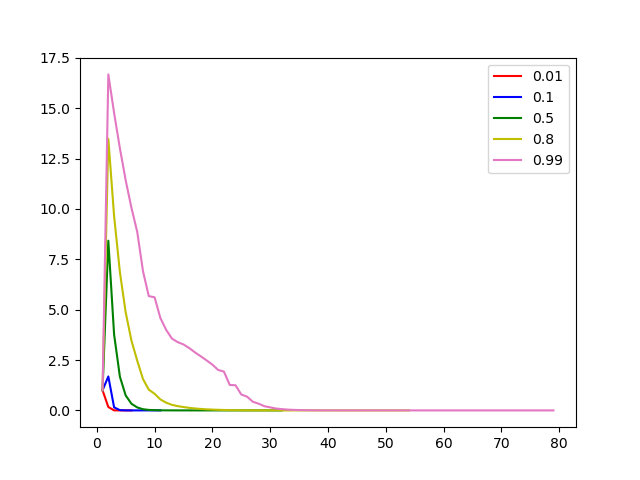
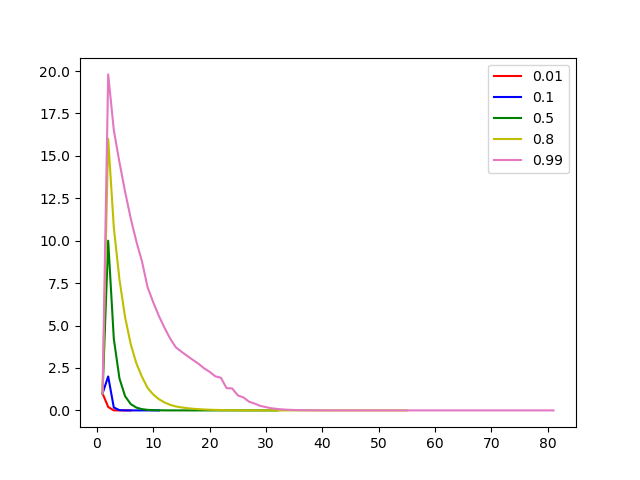
sad

diff --git a/A3.py b/A3.py
@@ -18,7 +18,7 @@ if sys.argv[1] == '1':
 		grid = Grid('grid_5x5.txt', (3,3), (1,1), (5,5))
 		taxi = TaxiDomain(grid, [(5,5)])
 		if sys.argv[3] == '1':
-			taxi.value_iteration(sys.argv[4])
+			taxi.value_iteration(float(sys.argv[4]))
 			taxi.simulate()
 		elif sys.argv[3] == '2':
 			gammas = [0.01, 0.1, 0.5, 0.8, 0.99]
@@ -53,6 +53,29 @@ if sys.argv[1] == '1':
 				json.dump(policies, f, indent=6)
 		else:
 			print("Not a Valid Execution...")
+	elif sys.argv[2] == '3':
+		if sys.argv[3] == '1':
+			grid = Grid('grid_5x5.txt', (3,3), (1,1), (5,5))
+			taxi = TaxiDomain(grid, [(5,5)])
+			taxi.policy_iteration(linalg = False, gamma=0.99)
+			taxi.simulate()
+		elif sys.argv[3] == '2':
+			grid = Grid('grid_5x5.txt', (3,3), (1,1), (5,5))
+			taxi = TaxiDomain(grid, [(5,5)])
+			opt_pol,_ = taxi.policy_iteration(linalg = False)
+
+			gammas = [0.1, 0.5, 0.8, 0.99]
+			colors = ['b', 'g', 'y', 'tab:pink']
+
+			for i in range(len(gammas)):
+				grid = Grid('grid_5x5.txt', (3,3), (1,1), (5,5))
+				taxi = TaxiDomain(grid, [(5,5)])
+				_,losses = taxi.policy_iteration(linalg = False, gamma=gammas[i], opt_pol=opt_pol)
+				plt.plot([i+1 for i in range(len(losses))], losses, color = colors[i], label= gammas[i])
+
+			plt.legend()
+			plt.savefig("policyplots.png")
+
 
 elif sys.argv[1] == '2':
 	if sys.argv[2] == '2':

diff --git a/taxi_domain.py b/taxi_domain.py
@@ -372,7 +372,7 @@ class TaxiDomain:
 
 		return mx_act
 
-	def norm_loss(V, U):
+	def norm_loss(self,V, U):
 		delta = 0
 
 		for s in self.policy.keys():
@@ -382,11 +382,6 @@ class TaxiDomain:
 		return delta
 
 	def policy_iteration(self, epsilon = 0.1, iterations = 100, gamma = 0.9, linalg = False, opt_pol = None):
-		for cell1 in self.grid.actionSpace.keys():
-			for cell2 in self.grid.actionSpace.keys():
-				self.policy[(cell1, False, cell2)] = WEST
-				self.policy[(cell1, True, cell1)] = WEST
-
 		idx_mapping = {}
 		j = 0
 		P = self.P_matrix()
@@ -411,8 +406,9 @@ class TaxiDomain:
 			else:
 				V = self.iterative_policy_evaluation(P, R, gamma, epsilon, iterations)
 			#print(V)
-			loss = norm_loss(V, opt_pol)
-			losses.append(loss)
+			if opt_pol != None:
+				loss = self.norm_loss(V, opt_pol)
+				losses.append(loss)
 			for s in self.policy.keys():
 				act1 = self.policy[s]
 				act2 = self.get_max_action(s, P, R, V)
@@ -422,10 +418,12 @@ class TaxiDomain:
 					changes.append([s, act1, act2])
 					unchanged = False
 			
-			print(len(changes))
+			print("no. of changes",len(changes))
 
-		return losses
-	
+		return V, losses
+	'''
+	>>>>>>> Stashed changes
+	'''
 	def best_action(self, curState):
 		best_action_val, best_q_value = NORTH, -(2**63)
 		for action in action_list:
